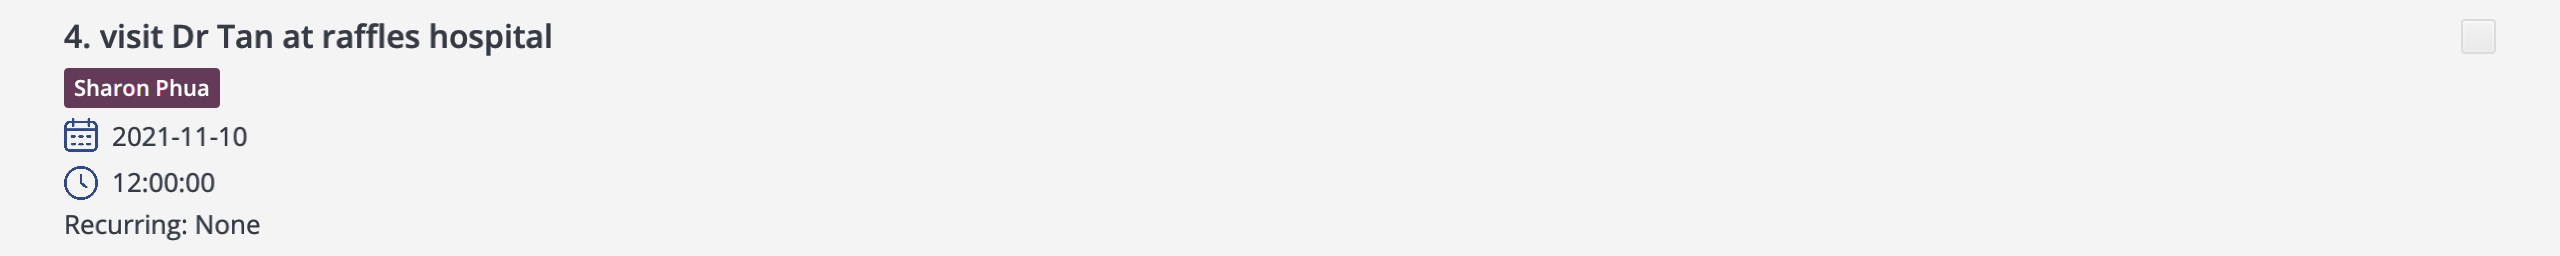
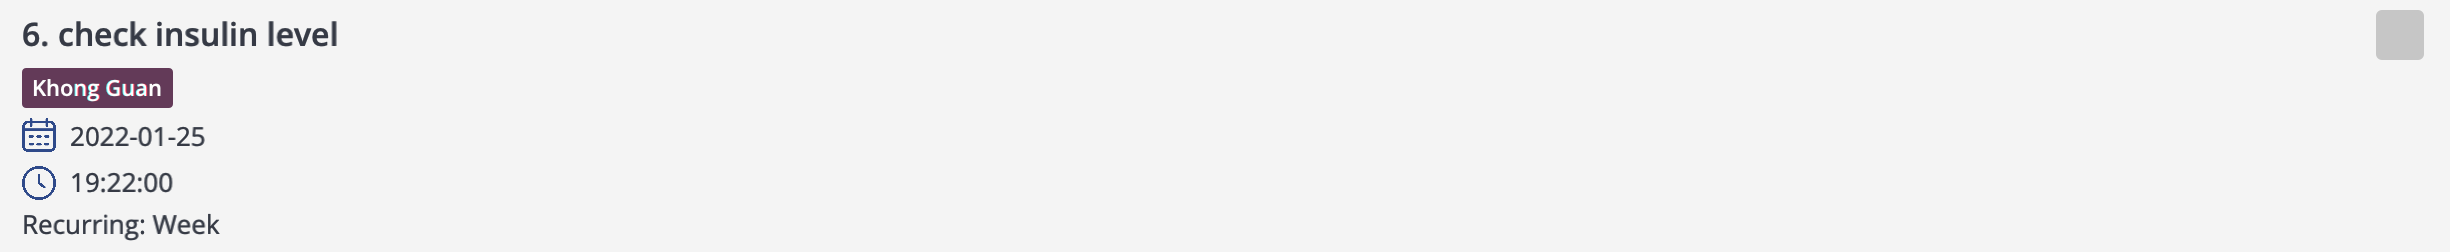
Update images in User Guide

diff --git a/docs/UserGuide.md b/docs/UserGuide.md
@@ -453,7 +453,7 @@ Adds a task to the task list.
 Format: `addTask [en/ELDERLY_NAME]… desc/DESCRIPTION date/DATE time/TIME [recur/RECURRENCE_TYPE]`
 
 Examples:
-`addTask en/John desc/check insulin level date/2022-01-25 time/19:22 recur/week`
+`addTask en/Khong Guan desc/check insulin level date/2022-01-25 time/19:22 recur/week`
 
 <div markdown="block" class="alert alert-info">
 
@@ -585,6 +585,8 @@ those under your care.
 Format: `remind`
 
 ![](images/userGuide/remind.png)
+
+Screenshot taken on 2021-11-04.
 
 #### 4.2.8 View task schedule: `viewSchedule`
 
